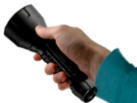
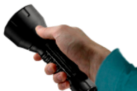
added animation to lantern

Changed region(s): [[0.0, 0.022, 1.0, 1.0]]

diff --git a/src/game.rs b/src/game.rs
@@ -32,6 +32,9 @@ pub struct Game {
     pub frame_delay: Duration,
     pub block_size: usize,
     pub block_siz2d: usize,
+    x_offset: usize,     // Posición del sprite
+    y_offset: usize,     // Posición fija en y
+    direction: isize,
 }
 
 impl Game {
@@ -96,17 +99,16 @@ impl Game {
             frame_delay,
             block_size,
             block_siz2d,
+            x_offset: 260,     // Posición inicial en x
+            y_offset: 190,     // Posición fija en y
+            direction: 1,      // Dirección inicial
         }
     }
 
     pub fn render(&mut self) {
 
-        let mut x_offset = 255; // Posición inicial en x
-        let y_offset = 170; // Posición fija en y
-        let mut direction = 1; // Dirección inicial: 1 = derecha, -1 = izquierda
-
         match self.state {
-            GameState::Playing => self.render_playing(&mut x_offset, y_offset, &mut direction),
+            GameState::Playing => self.render_playing(),
             GameState::WelcomeScreen => self.render_tittle_screen(),
             GameState::EndScreen => self.render_end_screen(),
         }
@@ -129,7 +131,6 @@ impl Game {
             self.maze = load_maze("./maze.txt");
 
             if let Some((start_x, start_y)) = find_start_position(&self.maze, self.block_size) {
-
                 self.player.a = std::f32::consts::PI / 1.0;
                 self.player.pos = Vec2::new(start_x as f32, start_y as f32);
             } else {
@@ -145,10 +146,8 @@ impl Game {
             self.maze = load_maze("./maze2.txt");
 
             if let Some((start_x, start_y)) = find_start_position(&self.maze, self.block_size) {
-
                 self.player.a = std::f32::consts::PI / 1.0;
                 self.player.pos = Vec2::new(start_x as f32, start_y as f32);
-                
             } else {
                 panic!("No start position ('s') found in the maze!");
             }
@@ -162,7 +161,7 @@ impl Game {
             self.maze = load_maze("./maze3.txt");
 
             if let Some((start_x, start_y)) = find_start_position(&self.maze, self.block_size) {
-                self.player.a = - std::f32::consts::PI / 2.0;
+                self.player.a = -std::f32::consts::PI / 2.0;
                 self.player.pos = Vec2::new(start_x as f32, start_y as f32);
             } else {
                 panic!("No start position ('s') found in the maze!");
@@ -181,7 +180,6 @@ impl Game {
     fn render_end_screen(&mut self) {
         self.framebuffer.clear();
         self.framebuffer.draw_image("./src/img/endScreen.png", 0, 0);
-
 
         self.window
             .update_with_buffer(
@@ -204,7 +202,7 @@ impl Game {
         self.player.stop_walking_sound();
     }
 
-    fn render_playing(&mut self,  x_offset: &mut usize, y_offset: usize, direction: &mut isize) {
+    fn render_playing(&mut self) {
         fn draw_cell(
             framebuffer: &mut Framebuffer,
             xo: usize,
@@ -350,7 +348,6 @@ impl Game {
             block_siz2d: usize, // Cambié el nombre del parámetro para reflejar el tamaño del bloque en 2D
             view: bool,
         ) {
-            
             player.update2d_position(block_size, block_siz2d);
 
             // Dibujar el laberinto
@@ -375,9 +372,9 @@ impl Game {
                 cast_ray(framebuffer, &maze, &player, a, block_siz2d, view, true);
             }
 
-             // Dibujar al jugador
-             framebuffer.set_current_color(0xFFDDD);
-             framebuffer.point(player.pos2d.x as usize, player.pos2d.y as usize);
+            // Dibujar al jugador
+            framebuffer.set_current_color(0xFFDDD);
+            framebuffer.point(player.pos2d.x as usize, player.pos2d.y as usize);
         }
 
         if self.window.is_key_down(Key::Escape) {
@@ -431,8 +428,15 @@ impl Game {
                 true,
             );
 
-            self.framebuffer.draw_image("./src/img/lantern3.png", *x_offset, y_offset);
+            self.framebuffer
+                .draw_image("./src/img/lantern3.png", self.x_offset, self.y_offset);
+            // Actualiza la posición en x
+            self.x_offset = (self.x_offset as isize + self.direction) as usize;
 
+            // Cambia la dirección cuando alcanza un límite
+            if self.x_offset > 270 || self.x_offset < 255 {
+                self.direction *= -1;
+            }
         } else {
             render2d(
                 &mut self.framebuffer,
